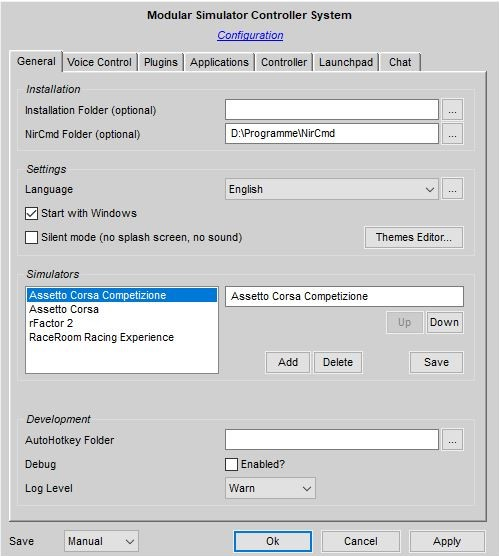
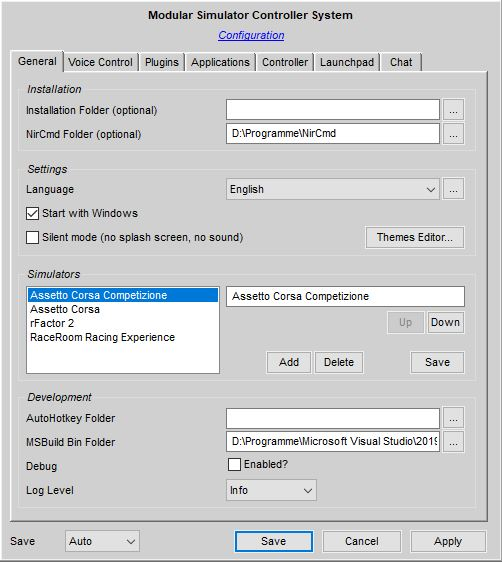
Integration of VS Build in Simulator Tools

diff --git a/Sources/Foreign/ACC SHM Reader/ACC SHM Reader/ACC SHM Reader.cpp b/Sources/Foreign/ACC SHM Reader/ACC SHM Reader/ACC SHM Reader.cpp
@@ -16,7 +16,6 @@ inline unsigned arraysize(const T(&v)[S])
 	return S;
 }
 
-
 struct SMElement
 {
 	HANDLE hMapFile;

diff --git a/Docs/Development Overview & Concepts.md b/Docs/Development Overview & Concepts.md
@@ -165,7 +165,7 @@ Therefore it can be very annoying to track down errors in AutoHotkey. But there 
 
 ## Using the Build Tool
 
-A simple build tool is part of the Simulator Controller distribution. It is rule based like the good old Unix make tool and will compile all the applications, that are part of Simulator Controller and put them in the *Binaries* folder. Additionaly, you can define cleanup tasks, for example to clear the *Logs* folder or removing backup files. You can find the build tool in the *Binaries* folder, it is named *Simulator Tools.exe*. Simply start it with a double click and it will scan all source files and will recreate all outdated executables..
+A simple build tool is part of the Simulator Controller distribution. It is rule based like the good old Unix make tool and will compile all the applications, that are part of Simulator Controller and put them in the *Binaries* folder. Additionaly, you can define cleanup tasks, for example to clear the *Logs* folder or removing backup files and copy tasks to move files around. You can find the build tool in the *Binaries* folder, it is named *Simulator Tools.exe*. Simply start it with a double click and it will scan all source files and will recreate all outdated executables..
 
 The build rules are defined in the file *Simulator Tools.targets* in the *Config* folder. A typical build rule will look like this:
 
@@ -176,6 +176,12 @@ The build rules are defined in the file *Simulator Tools.targets* in the *Config
 Note: You cannot normally format the rules like in this example, since due to technical restrictions, the complete rule must be kept on one line without CRs or LFs.
 
 This rule defines the *Simulator Controller.exe* application in the *Binaries* folder as the target. The main source file will be *Sources\Controller\Simulator Controller.ahk* and there are additional files in the *Includes* and in the *Plugins* folders, that will be checked for modification. Variables enclosed in "%" will be replaced with theirs current runtime values.
+
+Beside these customizable rules, a *special* rule exists, which integrates the *Visual Studio MSBuild* process. This rule looks like this:
+
+	dotNET Applications && DLLs=Special
+
+To use this, you must also set the path to the *MSBuild Bin* directory using the [configuration tool](https://github.com/SeriousOldMan/Simulator-Controller/wiki/Installation-&-Configuration#configuration). If this path is set, *Simulator Tools* searches the *Sources\Foreign* folder for "*.sln" files and runs *MSBuild* on them.
 
 Normally you will never need to change the build rules when developing your own plugins, as long as they will reside in the standard *Plugins* folders. But, if you decide to put them elsewhere, you might want to add an dependency to this place. To do this, copy *Simulator Tools.targets* to the *Simulator Controller\Config* folder, which is located in the *Documents* folder in your user home folder.
 

diff --git a/Docs/Installation & Configuration.md b/Docs/Installation & Configuration.md
@@ -59,7 +59,7 @@ The second group, *Settings* allows you to choose whether the Simulator Controll
 
 You can add all the simulation games installed on your PC to the list in the third group *Simulators*. For each entry here, you also need to create a similar named application entry in the applications tab. Please note, that the name of all simulation games, where a plugin exists for, may have a predefined name according to the roles of the plugin. The order of the entries in the *Simulators* list is important, at least the first one has a special role. More on that later. You can change the order with the "Up" and "Down" button, if an entry is selected. As with any list in the configuration tool, an entry must be selected with a double click for editing.
 
-The last group, which is only present in developer mode as mentioned above, lets you activate the debug mode, define the log level and enter the path to an AutoHotkey installation on your PC (only necessary, if AutoHotkey has been installed to a location other than C:\Program Files\AutoHotkey). Be careful with the log level *Info*, since the log files found in the *Simulator Controller\Logs* folder found in the users *Documents* folder may grow quite fast.
+The last group, which is only present in developer mode as mentioned above, lets you activate the debug mode, define the log level and enter the path to an AutoHotkey installation on your PC (only necessary, if AutoHotkey has been installed to a location other than C:\Program Files\AutoHotkey). Be careful with the log level *Info*, since the log files found in the *Simulator Controller\Logs* folder found in the users *Documents* folder may grow quite fast. If you want to automatically build all *Visual Studio* applications and DLLs while running *Simulator Tools*, you must enter the path to the *MSBuild Bin* directory here es well. See the [documentation for *Simulator Tools*](https://github.com/SeriousOldMan/Simulator-Controller/wiki/Development-Overview-&-Concepts#using-the-build-tool) for more information.
 
 ### Tab *Voice Control*
 

diff --git a/Docs/Releases.md b/Docs/Releases.md
@@ -8,6 +8,7 @@
   5. Initial version of Jona for rFactor 2 too. Support for pitstop handling will be added in a future release.
   6. Jona is now also active in practice sessions but does not support pitstop planning and preparation there.
   7. (Developer only): Documentation for the configuration tool plugin interface has been added. Please take a look here: [Customizing the Configuration Tool](https://github.com/SeriousOldMan/Simulator-Controller/wiki/Development-Overview-&-Concepts#customizing-the-configuration-tool) and also the [updated documentation](*) in the *Classes Reference* for more information.
+  8. (Developer only): The build pipeline of *Simulator Tools* now incorporates *VS MSBuild*, so that all external applications and DLLs will be automatically compiled too. See the [revised documentation](https://github.com/SeriousOldMan/Simulator-Controller/wiki/Development-Overview-&-Concepts#using-the-build-tool) on *Simulator Tools* for more information.
   
 ## 2.7-release 04/01/21
 
